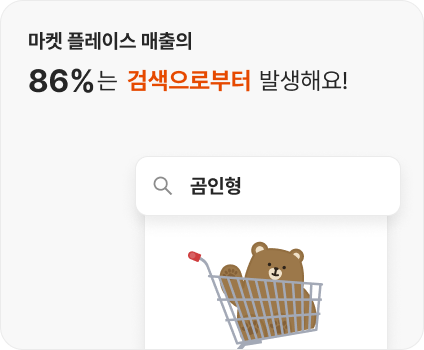
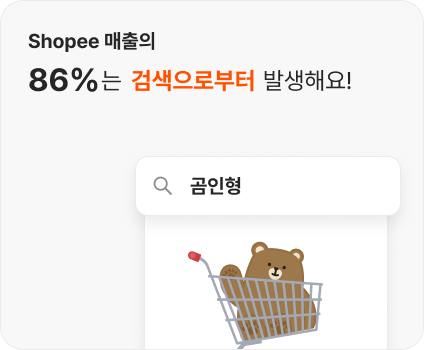
feat: 메인 수정요청 사항 적용

Changed region(s): [[0.0613, 0.1714, 0.8278, 0.2857], [0.0613, 0.0857, 0.4599, 0.1429]]

diff --git a/apps/office/src/home/elements/Partner.tsx b/apps/office/src/home/elements/Partner.tsx
@@ -6,41 +6,6 @@ interface IPartner {
   imagePath: string;
 }
 export const Partner = ({ imagePath }: IPartner) => {
-  const RepeatPartnerSlide = () =>
-    PARTENER_DATA.map((partener, index) => (
-      <SwiperSlide
-        key={index}
-        className='shadow-partner-card !md:w-[286px] !h-auto !w-[424px]  rounded-[16.5097px] border border-grey-300 bg-white p-6 md:p-[18.54px]'
-      >
-        <div className='mb-6 md:mb-[18.54px]'>
-          <div className='flex'>
-            <div className='mr-2.5 h-[65px] w-[65px] md:mr-[7.73px] md:h-[43.25px] md:w-[43.25px]'>
-              <img
-                src={`${imagePath}/Section6/${partener.imgName}`}
-                alt='{partener.name}'
-              />
-            </div>
-            <div>
-              <div className='mb-2 text-L/Medium  text-grey-900 md:mb-[3.09px]  md:text-S/Medium'>
-                {partener.name}
-              </div>
-              <div className='text-M/Regular text-grey-800  md:text-S/Regular'>
-                {partener.brand}
-              </div>
-            </div>
-          </div>
-        </div>
-        <div>
-          <div className='mb-4 text-XL/Bold text-grey-900 md:mb-[12.36px] md:text-S/Bold'>
-            {partener.subject}
-          </div>
-          <div className='text-L/Medium text-grey-800 md:text-XS/Medium'>
-            {partener.content}
-          </div>
-        </div>
-      </SwiperSlide>
-    ));
-
   return (
     <section className='overflow-hidden bg-grey-50'>
       <div className='container pt-[100px] pb-[122px] sm:pb-[60px] md:mx-auto md:pt-[77px] md:pb-[100px] lg:pb-[80px] '>
@@ -58,64 +23,44 @@ export const Partner = ({ imagePath }: IPartner) => {
           </div>
         </div>
 
-        <div className='sm:hidden'>
-          <Swiper
-            modules={[Autoplay]}
-            spaceBetween={24}
-            centeredSlides={true}
-            slidesPerView={'auto'}
-            loopedSlides={PARTENER_DATA.length}
-            loop={true}
-            autoplay={{
-              delay: 0,
-              disableOnInteraction: false,
-              pauseOnMouseEnter: true,
-            }}
-            effect='slide'
-            grabCursor={true}
-            speed={5000}
-            a11y={{ enabled: false }}
-            className='banner !overflow-visible'
-          >
-            {RepeatPartnerSlide()}
-          </Swiper>
-        </div>
-        <div className='hidden sm:block'>
-          <ul>
-            {PARTENER_DATA.map((partener, index) => (
-              <li
-                key={index}
-                className='shadow-partner-card mb-6 rounded-[16.5097px] border border-grey-300 bg-white p-6 md:p-[18.54px]'
-              >
-                <div className='mb-6 md:mb-[18.54px]'>
-                  <div className='flex'>
-                    <div className='mr-2.5 h-[65px] w-[65px] md:mr-[7.73px] md:h-[43.25px] md:w-[43.25px]'>
-                      <img
-                        src={`${imagePath}/Section6/${partener.imgName}`}
-                        alt='{partener.name}'
-                      />
+        <div className='flex w-full gap-6 sm:flex-col'>
+          {PARTENER_DATA.map((partener, index) => (
+            <div
+              key={index}
+              className='shadow-partner-card h-auto w-[424px] rounded-[16.5097px] border  border-grey-300 bg-white p-6 md:w-full md:p-[18.54px]'
+            >
+              <div className='mb-6 md:mb-[18.54px]'>
+                <div className='flex'>
+                  <div className='mr-2.5 h-[65px] w-[65px] md:mr-[7.73px] md:h-[43.25px] md:w-[43.25px]'>
+                    <img
+                      src={`${imagePath}/Partner/${partener.imgName}`}
+                      alt='{partener.name}'
+                    />
+                  </div>
+                  <div>
+                    <div className='mb-2 text-L/Medium  text-grey-900 md:mb-[3.09px]  md:text-S/Medium'>
+                      {partener.name}
                     </div>
-                    <div>
-                      <div className='mb-2 text-L/Medium  text-grey-900 md:mb-[3.09px]  md:text-S/Medium'>
-                        {partener.name}
-                      </div>
-                      <div className='text-M/Regular text-grey-800  md:text-S/Regular'>
-                        {partener.brand}
-                      </div>
-                    </div>
+                    <ul className='ml-5 text-M/Regular  text-grey-800 md:text-S/Regular'>
+                      {partener.brand.map((content, index) => (
+                        <li key={`conetent_${index}`} className='list-disc'>
+                          {content}
+                        </li>
+                      ))}
+                    </ul>
                   </div>
                 </div>
-                <div>
-                  <div className='mb-4 text-XL/Bold text-grey-900  md:mb-[12.36px] md:mb-[12.36px] md:text-S/Bold'>
-                    {partener.subject}
-                  </div>
-                  <div className='text-L/Medium text-grey-800 md:text-XS/Medium'>
-                    {partener.content}
-                  </div>
+              </div>
+              <div>
+                <div className='mb-4 text-XL/Bold text-grey-900 md:mb-[12.36px] md:text-S/Bold'>
+                  {partener.subject}
                 </div>
-              </li>
-            ))}
-          </ul>
+                <div className='text-L/Medium text-grey-800 md:text-XS/Medium'>
+                  {partener.content}
+                </div>
+              </div>
+            </div>
+          ))}
         </div>
       </div>
     </section>

diff --git a/apps/office/src/home/constant.ts b/apps/office/src/home/constant.ts
@@ -115,59 +115,39 @@ export const TAB_DATA = [
 
 export const PARTENER_DATA = [
   {
-    imgName: 'hansell.png',
-    name: '김채아 · 마케터',
-    brand: '한셀뷰티',
-    subject: '마케터의 시간절약에 꼭 필요해요',
+    imgName: 'YoungJoo.png',
+    name: '이영주 대표',
+    brand: ["'나는 쇼피로 통했다' 저자", '쇼피 셀러 강사', "유튜브 '스테비TV' 운영"],
+    subject: '셀러들의 시간을 아껴주는 서비스에요.',
     content:
-      '특정 상품군에 대한 시장규모와 가격에 대한 정보를 미리 알 수 있어서, 상품 소싱 과정에서 많은 시간을 절약할 수 있었어요.',
+      '그동안 수동으로 상품을 찾고 키워드를 하나씩 확인하는 작업에 시간이 많이 걸렸는데 이제는 시장을 분석하거나  키워드를 찾을 때 다양한 정보를 바로 확인할 수 있어요. ',
   },
   {
-    imgName: 'ProfileImg.png',
-    name: '이준 · 리셀러',
-    brand: '월드리뷰트',
-    subject: '전략적인 판매를 할 수 있도록 도와줍니다.',
+    imgName: 'ChaHyun.png',
+    name: '손체현 대표',
+    brand: ['글로벌 라이징 대표', '쇼피 셀러 강사', "유튜브 '글로벌셀러 레아' 운영"],
+    subject: '상품 경쟁력을 확인할때 꼭 사용하세요!',
     content:
-      '판매 가능성이 높은 상품을 미리 알고 소싱할 수 있기 때문에 소싱에 대한 기회비용을 줄이고 매출에 대한 가능성은 높일 수 있었습니다.',
+      'Shopee에서 상품의 판매량, 매출, 경쟁 상품 수와 키워드의 검색량 트랜드까지 알려주니 상품을 판매하기 전후로 정말 많은 도움이 되더라구요! 쇼피셀러라면 꼭 사용하세요!',
   },
   {
-    imgName: 'carPlus.png',
-    name: '오채윤 대표 · CEO',
-    brand: '차량용품 플러스',
-    subject: '클릭수를 230%까지 상승시킬 수 있었어요',
+    imgName: 'JongHyeock.png',
+    name: '이종혁 대표',
+    brand: [
+      '(주)이선화 대표',
+      "배송대행지 '쏭배송' 운영",
+      '다수 Shopee 셀러 커뮤니티 운영',
+    ],
+    subject: '셀러들의 시간을 아껴주는 서비스에요.',
     content:
-      '키워드 선별을 번역기에만 의존했었는데, 플랫폼 내 검색량이 많은 키워드를 경쟁도와 함께 직접 알려주니 클릭수를 230%까지 상승시킬 수 있었어요.',
-  },
-  {
-    imgName: 'wt.png',
-    name: '최덕진 · MD',
-    brand: 'WT코퍼레이션',
-    subject: '전략적인 판매를 할 수 있도록 도와줍니다.',
-    content:
-      '지금까지는 상품 수로 매출 승부를 걸었다면, 이제는 고미인사이트를 통해 전략적인 상품 소싱이 가능하기 때문에 상품당 매출을 130%까지 상승시켰습니다.',
-  },
-  {
-    imgName: 'lab.png',
-    name: '김재성 · 마케터',
-    brand: 'Inventree Lab.',
-    subject: '데이터를 기반으로 현지화 전략을 수립했어요.',
-    content:
-      '상위노출 상품을 판매하고 있는 셀러들의 가격, 이미지, CS운영 등 다양하고 자세한 데이터를 기반으로 현지 시장에 맞는 판매 전략을 수립할 수 있었어요. ',
-  },
-  {
-    imgName: 'ProfileImg-1.png',
-    name: 'william · 리셀러',
-    brand: 'Betelgeuse',
-    subject: '효율적인 재고관리가 가능해요',
-    content:
-      '월별 키워드의 검색 수요에 대한 트랜드 정보를 통해 사입할 상품들의 재고를 언제 얼마나 준비해야 하는지 미리 알 수 있어서 재고부담을 줄일 수 있어요.',
+      '그동안 수동으로 상품을 찾고 키워드를 하나씩 확인하는 작업에 시간이 많이 걸렸는데 이제는 시장을 분석하거나  키워드를 찾을 때 다양한 정보를 바로 확인할 수 있어요. ',
   },
 ];
 
 export const USER_TARGET_DATA = [
   {
     imgName: 'Reseller.png',
-    name: '리셀러',
+    name: '개인 글로벌 셀러',
     content:
       '소싱할 상품에 대한 수요와 적정 판매가를 미리 파악하고 진입이 유리한 키워드 및 콘텐츠 전략을 수립할 수 있어요.',
   },
@@ -188,5 +168,11 @@ export const USER_TARGET_DATA = [
     name: 'MD',
     content:
       '데이터를 기반으로 해외에 수출할  상품의 사업성을 종합적으로 미리 파악할 수 있어요.',
+  },
+  {
+    imgName: 'Trader.png',
+    name: '수출 컨설턴트',
+    content:
+      '수출 컨설팅 진행 시 고미인사이트의 데이터를 기반으로한 자료를 통해, 클라이언트에게 보다 전문성 있는 컨설팅이 가능해졌어요.',
   },
 ];

diff --git a/apps/office/src/common/constants.ts b/apps/office/src/common/constants.ts
@@ -1,3 +1,5 @@
+import { GlobalEnv } from '@/api/config';
+
 export const HOME_QNA = [
   {
     subject: '고미인사이트는 어떤 서비스인가요?',
@@ -11,13 +13,14 @@ export const HOME_QNA = [
   },
   {
     subject: '서비스 이용료가 궁금해요!',
-    content:
-      '현재 고미 인사이트는 무제한 사용이 가능한 이벤트를 진행중이에요! 별도의 이벤트 종료 안내까지는 무료로 무제한 사용하실 수 있어요.',
+    link: `${GlobalEnv.officeUrl}/price`,
+    linkName: '환불 정책 자세히 보기',
+    content: '자세한 고미인사이트 서비스 이용료는 요금 안내 페이지를 확인해주세요.',
   },
   {
     subject: '분석이 가능한 쇼피 국가는 어디인가요?',
     content:
-      '현재는 싱가포르, 대만, 말레이시아, 베트남, 태국에 대한 분석을 제공하고 있어요. 점진적으로 쇼피의 모든 국가를 지원할 예정이며, 라자다, 아마존과 같은 마켓 플레이스의 인사이트도 추가될 예정이에요. 회원가입 시 업데이트 소식을 빠르게 받아보실 수 있어요!',
+      '현재는 싱가포르, 대만, 말레이시아, 베트남, 태국에 대한 분석을 제공하고 있어요. 점진적으로 Shopee의 모든 국가를 지원할 예정이며 회원가입 시 업데이트 소식을 빠르게 받아보실 수 있어요!',
   },
   {
     subject: '그 외 추가적인 문의가 있어요!',

diff --git a/apps/office/src/home/elements/EcommerceMargin.tsx b/apps/office/src/home/elements/EcommerceMargin.tsx
@@ -12,7 +12,7 @@ export const EcommerceMargin = ({ imagePath }: IEcommerceMargin) => {
                 알고 계신가요?
               </div>
               <div className='mt-6 break-keep text-3XL/Bold md:text-2XL/Bold'>
-                <p>이커머스 플랫폼 매출의 86%는</p>
+                <p>Shopee 매출의 86%는</p>
                 <p className='mt-2'>
                   <span className='text-orange-400'>키워드 검색</span>을 통해서 발생한다는
                   사실!
@@ -42,12 +42,12 @@ export const EcommerceMargin = ({ imagePath }: IEcommerceMargin) => {
           <div className='xs:mb-[56px] mb-20 lg:mb-[70px]'>
             <div className='text-center'>
               <div className='text-2XL/Bold text-grey-800 md:text-XL/Bold'>
-                검색결과 상위 50개 상품들을 분석하여
+                Shopee 키워드 검색결과 상위 50개 상품들을 분석하여
               </div>
               <div className='mt-6 break-keep text-3XL/Bold md:text-2XL/Bold'>
                 <p>
-                  <span className='text-orange-400'>시장 정보</span>와
-                  <span className='text-orange-400'>상위 노출 노하우</span>를 한 눈에!
+                  <span className='text-orange-400'>시장 정보</span> 와
+                  <span className='text-orange-400'> 상위 노출 노하우</span>를 한 눈에!
                 </p>
               </div>
             </div>

diff --git a/apps/office/src/home/elements/Efficient.tsx b/apps/office/src/home/elements/Efficient.tsx
@@ -18,10 +18,10 @@ export const Efficient = ({ imagePath }: IEfficient) => {
                 고미인사이트와 함께
               </div>
               <div className='mt-6 break-keep text-3XL/Bold md:text-2XL/Bold'>
-                <p>잘 팔릴 상품인지 미리 확인하고</p>
+                <p>유망한 상품을 발굴</p>하고
                 <p className='mt-2'>
-                  <span className='text-orange-400'>상위노출을 통해 </span>매출 선순환
-                  구조를 만드세요!
+                  <span className='text-orange-400'>상위 노출 전략</span>으로 매출 상승을
+                  경험해보세요!
                 </p>
               </div>
             </div>
@@ -40,10 +40,10 @@ export const Efficient = ({ imagePath }: IEfficient) => {
           <div className='mb-20 sm:mb-[56px]'>
             <div className='text-center'>
               <div className='text-2XL/Bold text-orange-500 md:text-XL/Bold'>
-                누가, 어떻게 활용할 수 있을 까요?
+                전략적으로 상품을 소싱하고 판매하고 싶은
               </div>
               <div className='mt-6 break-keep text-3XL/Bold text-grey-900 md:text-2XL/Bold '>
-                <p>쇼피에 상품을 판매하는 누구나!</p>
+                <p>Shopee 셀러 누구나!</p>
               </div>
             </div>
           </div>

diff --git a/apps/office/src/home/elements/Header.tsx b/apps/office/src/home/elements/Header.tsx
@@ -5,14 +5,15 @@ export const Header = () => {
       <div className='container relative h-full'>
         <div className='relative z-10 flex h-full flex-col items-center justify-center text-center'>
           <h1 className='xs:text-2XL/Bold break-keep text-4XL/Bold sm:text-3XL/Bold'>
-            <span className='gradientTitle'>데이터 기반의 판매전략 수립</span>을 위한
+            스마트한
+            <span className='gradientTitle'> Shopee 판매자</span>를 위한
             <br />
-            <span className='gradientTitle '>Shopee 종합 분석</span>솔루션
+            <span className='gradientTitle '>키워드 분석 리포트</span>
           </h1>
           <p className='mt-12 text-L/Medium text-grey-700'>
-            동남아시아 No.1 마켓플레이스 Shopee의 상위노출 상품들을 분석하여
+            Shopee 키워드 검색결과 내 상위 노출 상품들을 분석하여
             <br />
-            시장 정보와 최고의 판매 전략을 수립하세요!
+            상품의 시장 정보와 최고의 판매 전략을 제공해요!
           </p>
         </div>
         <div className='absolute left-0  top-0 h-full w-full'>

diff --git a/apps/office/src/home/elements/Promotion.tsx b/apps/office/src/home/elements/Promotion.tsx
@@ -11,11 +11,11 @@ export const Promotion = ({ imagePath }: IPromotion) => {
               <div className='mb-[13px] inline-block rounded-[33px] bg-grey-900 px-5 py-[7px]'>
                 <span className='text-S/Medium text-white'>Event 2023.03~ 종료시</span>
               </div>
-              <div className='mb-[20px] text-3XL/Bold'>무제한 사용 이벤트</div>
+              <div className='mb-[20px] text-3XL/Bold'>월 무료 10회 이벤트</div>
               <div className='text-grey-700'>
-                고미인사이트는 현재 무료 서비스 이벤트를 진행중이에요.
+                키워드 분석은 매월 10회까지 무료로 가능해요.
                 <br />
-                별도의 이벤트 종료 안내까지는 무제한 리포트 조회가 가능해요!
+                지금 바로 판매하고자 하는 상품을 분석해보세요!
               </div>
             </div>
 

diff --git a/apps/office/src/home/elements/InsightFunctions.tsx b/apps/office/src/home/elements/InsightFunctions.tsx
@@ -24,7 +24,7 @@ export const InsightFunctions = ({ imagePath }: IInsightFunctions) => {
           <div className='mb-[70px] sm:mb-10 lg:mb-[72px]'>
             <div className='text-center'>
               <div className='text-2XL/Bold text-orange-500 md:text-XL/Bold'>
-                베스트 셀러가 되기 위한
+                베스트 글로벌 셀러가 되기 위한
               </div>
               <div className='mt-6 break-keep text-3XL/Bold text-grey-900 md:text-2XL/Bold '>
                 <p>10여가지 종합 인사이트!</p>
